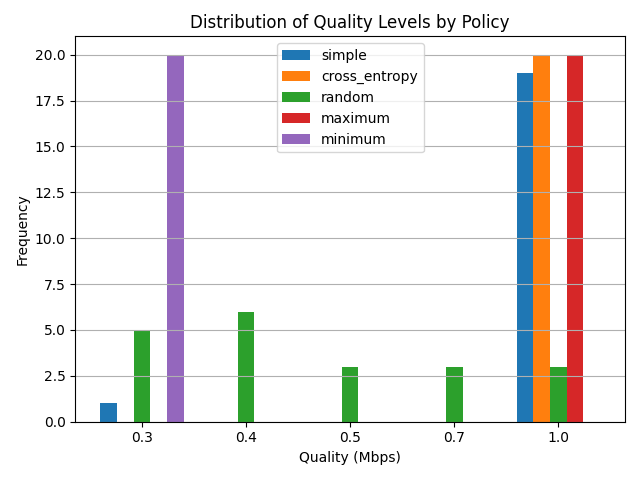
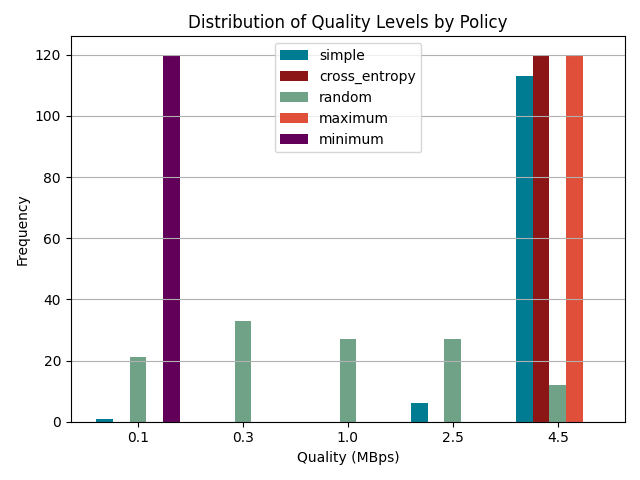
updated plots and shit

diff --git a/run_sims.py b/run_sims.py
@@ -25,6 +25,16 @@ policy_dict = {
     "minimum": policies.always_min_quality
 }
 
+
+# https://identity.stanford.edu/design-elements/color/accent-colors/
+colors = {
+    "simple": "#007C92",    
+    "cross_entropy": "#8C1515", 
+    "random": "#6FA287", 
+    "maximum": "#E04F39",   
+    "minimum": "#620059"   
+}
+
 # initial segments to try
 # N_SEGMENTS = 20
 
@@ -47,10 +57,36 @@ def quality_over_time_comparison(results, labels, num_segments=constants.N_SEGME
     """
     plt.figure()
 
+    # for i in range(len(results)):
+    #     label = labels[i]
+    #     res = results[i]
+    #     plt.plot(res.quality_history, marker='o', label=label)
     for i in range(len(results)):
         label = labels[i]
         res = results[i]
-        plt.plot(res.quality_history, marker='o', label=label)
+        color = colors[label]  # Use color from the dictionary
+
+        # Customize the plotting for "cross_entropy"
+        if label == "cross_entropy":
+            plt.plot(
+                res.quality_history,
+                marker='o',
+                markersize=3,            # smaller marker
+                linewidth=2,
+                label=label,
+                color=color,
+                zorder=3                 # plot on top
+            )
+        else:
+            plt.plot(
+                res.quality_history,
+                marker='o',
+                markersize=6,
+                linewidth=2,
+                label=label,
+                color=color,
+                zorder=2
+            )
 
 
     # for label, policy in policy_dict.items():
@@ -59,9 +95,9 @@ def quality_over_time_comparison(results, labels, num_segments=constants.N_SEGME
     #     res = simulator.simulate()
     #     plt.plot(res.quality_history, marker='o', label=label)
 
-    plt.title("Quality Level Over Time by Policy")
+    plt.title("Quality Level Chosen per Segment by Policy")
     plt.xlabel("Segment #")
-    plt.ylabel("Quality (Mbps)")
+    plt.ylabel("Quality (MBps)")
     plt.legend()
     plt.grid(True)
     plt.tight_layout()
@@ -97,10 +133,10 @@ def quality_choice_hist_comparison(simulation_results, labels):
     plt.figure()
     for i, label in enumerate(labels):
         heights = [data[q][i] for q in quality_levels]
-        plt.bar(x + i * width, heights, width=width, label=label)
+        plt.bar(x + i * width, heights, width=width, label=label, color=colors[label])
 
     plt.title("Distribution of Quality Levels by Policy")
-    plt.xlabel("Quality (Mbps)")
+    plt.xlabel("Quality (MBps)")
     plt.ylabel("Frequency")
     plt.xticks(x + width * (len(simulation_results) - 1) / 2, quality_levels)
     plt.legend()
@@ -124,9 +160,9 @@ def compare_co2_hist(results, labels, num_segments=constants.N_SEGMENTS):
     #     #labels.append(label)
     #     emissions.append(res.carbon_emitted)
 
-    plt.bar(labels, emissions)
-    plt.ylabel("Total CO₂ Emitted")
-    plt.title("Carbon Emissions Comparison")
+    plt.bar(labels, emissions, color=[colors[label] for label in labels])
+    plt.ylabel("Total CO₂ Emitted (g)")
+    plt.title("Simulated CO2 emissions per-policy")
     plt.xticks(rotation=45)
     plt.grid(True, axis='y')
     plt.tight_layout()
@@ -152,9 +188,17 @@ def plot_four_objective_radar(results, labels):
     """
     # Extract raw data
     avg_quality = np.array([r.average_quality for r in results])
-    inv_rebuffers = np.array([1 / r.total_rebuffer_time if r.total_rebuffer_time > 0 else 0 for r in results])
-    inv_carbon = np.array([1 / r.carbon_emitted if r.carbon_emitted > 0 else 0 for r in results])
-    inv_cost = np.array([1 / r.total_cost if r.total_cost > 0 else 0 for r in results])
+    # inv_rebuffers = np.array([1 / r.total_rebuffer_time if r.total_rebuffer_time > 0 else 0 for r in results])
+    # inv_carbon = np.array([1 / r.carbon_emitted if r.carbon_emitted > 0 else 0 for r in results])
+    # inv_cost = np.array([1 / r.total_cost if r.total_cost > 0 else 0 for r in results])
+    inv_rebuffers = np.array([1 / r.total_rebuffer_time if r.total_rebuffer_time > 0 else 1e6 for r in results])
+    inv_carbon = np.array([1 / r.carbon_emitted if r.carbon_emitted > 0 else 1e6 for r in results])
+    inv_cost = np.array([1 / r.total_cost if r.total_cost > 0 else 1e6 for r in results])
+
+    # Apply log scaling
+    inv_rebuffers = np.log10(inv_rebuffers)
+    inv_carbon = np.log10(inv_carbon)
+    inv_cost = np.log10(inv_cost)
 
     # Stack them for easier normalization
     data = np.stack([avg_quality, inv_rebuffers, inv_carbon, inv_cost], axis=1)
@@ -182,8 +226,8 @@ def plot_four_objective_radar(results, labels):
     for i, (row, label) in enumerate(zip(normalized, labels)):
         values = row.tolist()
         values += values[:1]  # close the loop
-        ax.plot(angles, values, label=label)
-        ax.fill(angles, values, alpha=0.1)
+        ax.plot(angles, values, label=label, color=colors[label])
+        ax.fill(angles, values, alpha=0.1, color=colors[label])
 
     ax.set_xticks(angles[:-1])
     ax.set_xticklabels(categories)
@@ -193,6 +237,7 @@ def plot_four_objective_radar(results, labels):
 
     plt.tight_layout()
     plt.show()
+    plt.savefig("four_obj_radar.png")
 
 def create_plots(simulation_results, labels, num_segments):
     plot_four_objective_radar(simulation_results, labels)
@@ -204,7 +249,7 @@ def create_plots(simulation_results, labels, num_segments):
 def simulate_policies(num_segments, policy_dict, verbose=False, plots=False):
     simulation_results = []
     for label, policy in policy_dict.items():
-        random.seed(331703)  #birthdays hehehe, ensures that each simulation run with a different policy has the same stream of randomness generated
+        random.seed(3317303)  #birthdays hehehe, ensures that each simulation run with a different policy has the same stream of randomness generated
         simulator = NetworkSimulator(num_segments, policy)
         res = simulator.simulate()
         simulation_results.append(res)
@@ -212,9 +257,10 @@ def simulate_policies(num_segments, policy_dict, verbose=False, plots=False):
             print("")
             print(f"---------------------------------------------------------")
             print(f"Completed simulations for {label}.....")
-            print(f"    Quality history: {res.quality_history}")
-            print(f"    CO2 emitted: {res.carbon_emitted}")
+            print(f"    Average quality (MB/sec): {res.average_quality}")
+            print(f"    CO2 emitted (g): {res.carbon_emitted}")
             print(f"    # of rebuffers: {res.num_rebuffer_events}")
+            print(f"    Time spent rebuffering (s): {res.total_rebuffer_time}")
             print(f"    Total cost ($): {res.total_cost}")
             print(f"---------------------------------------------------------")
             print("")
